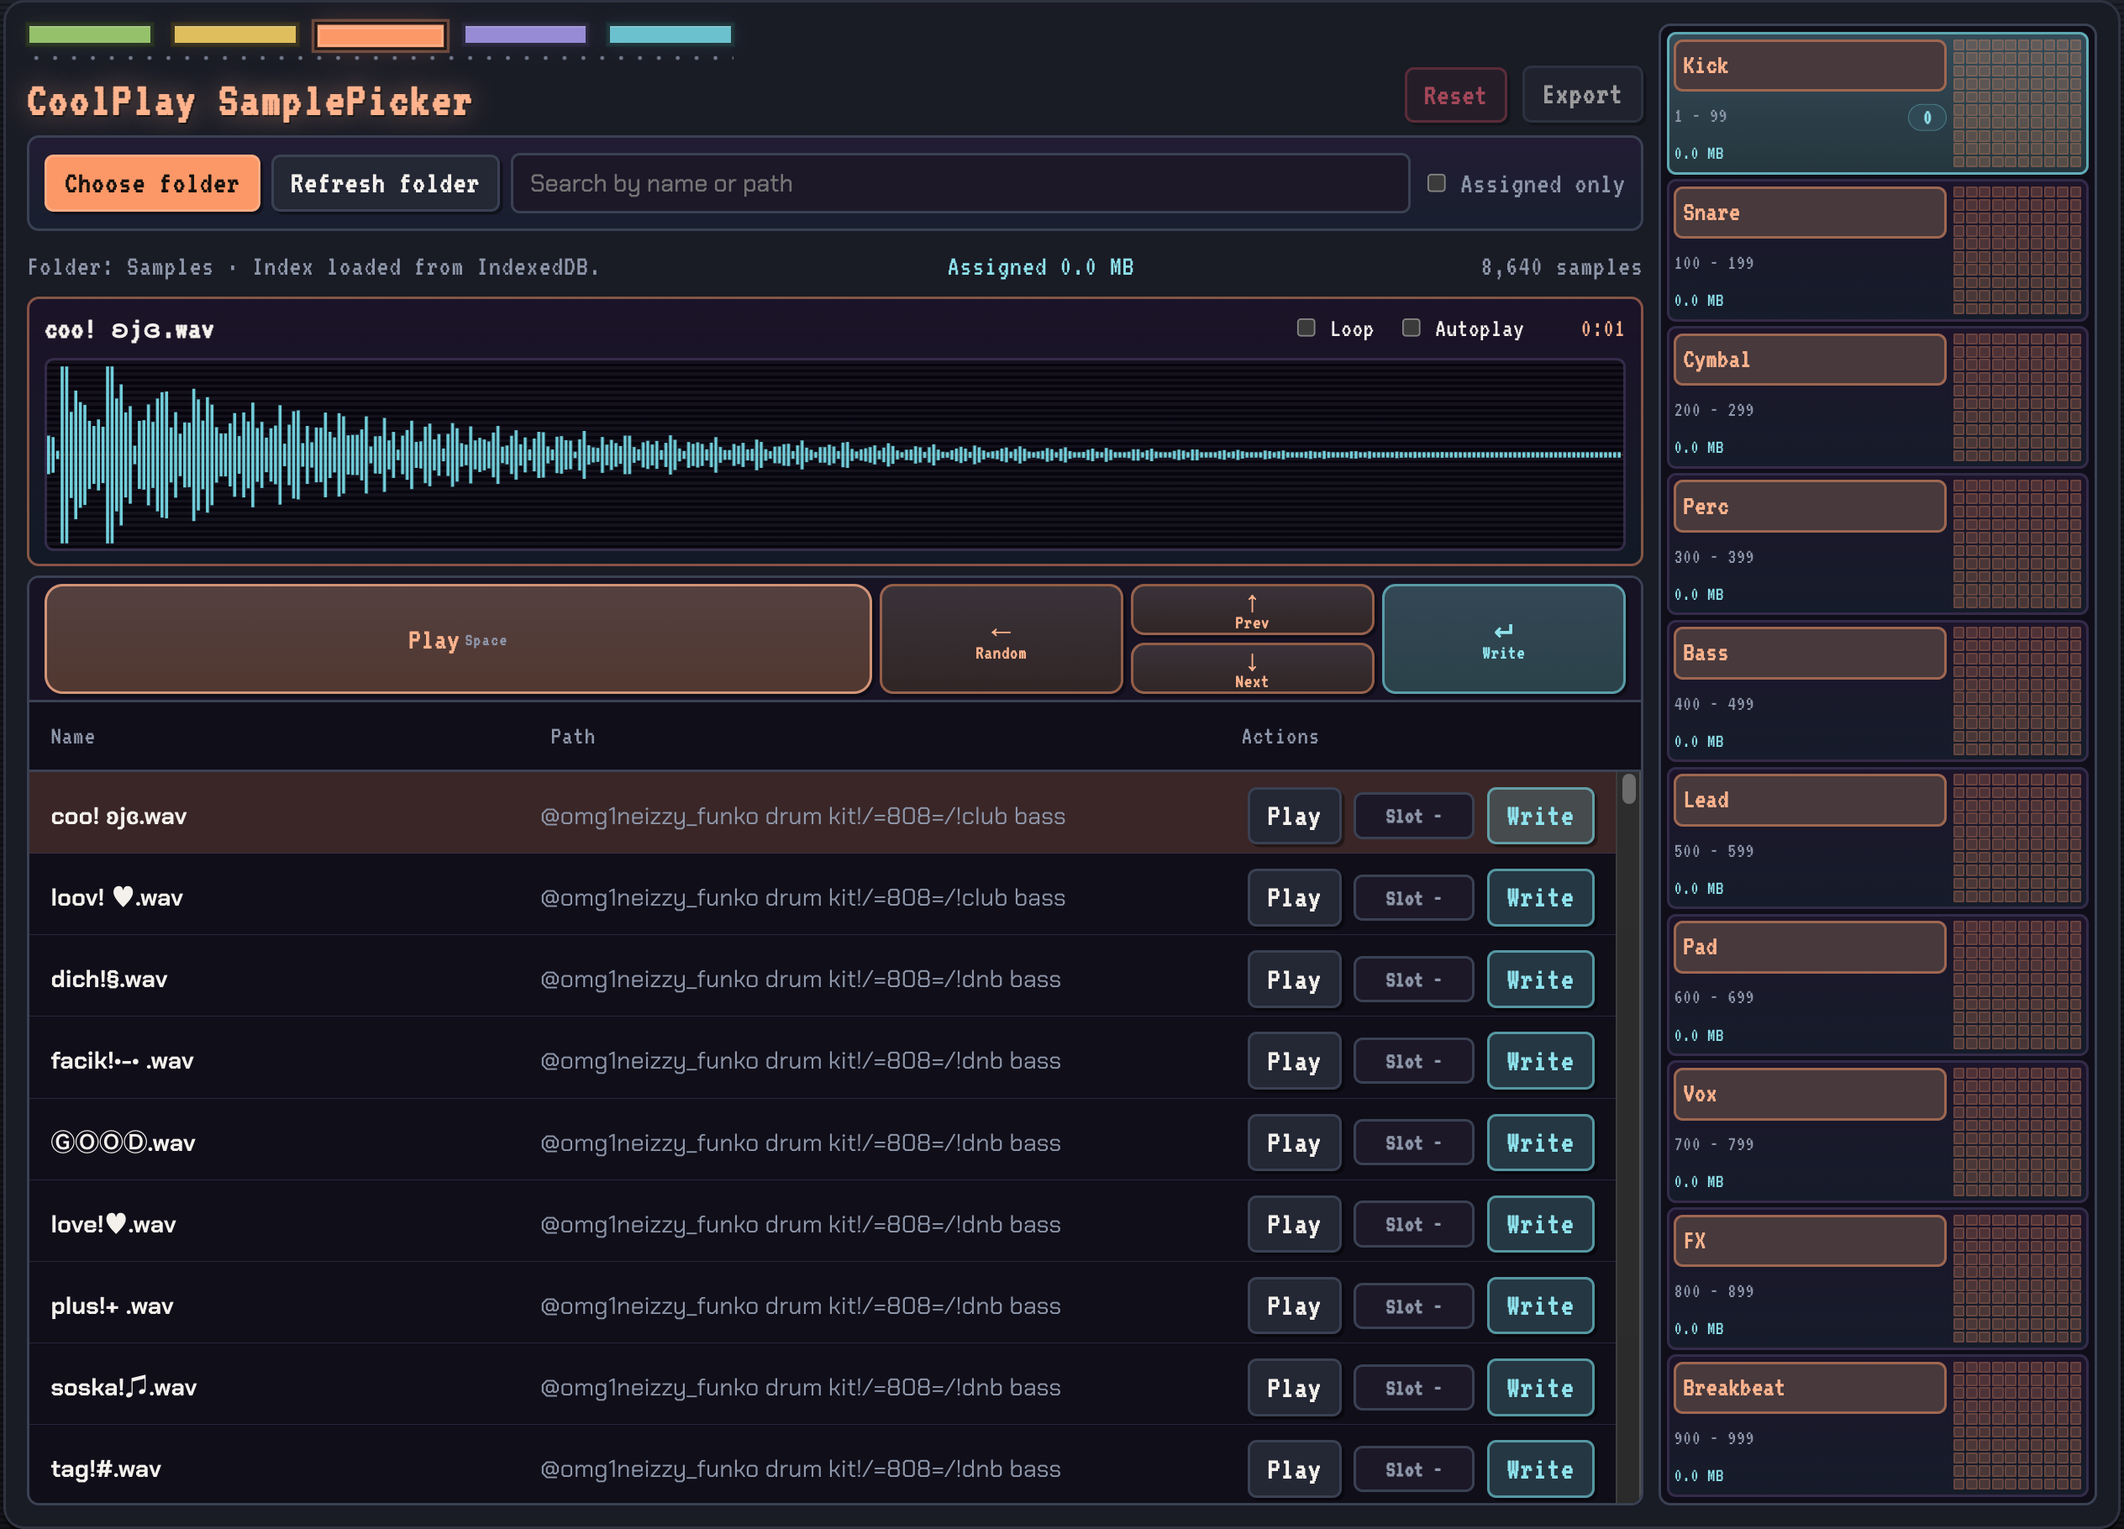
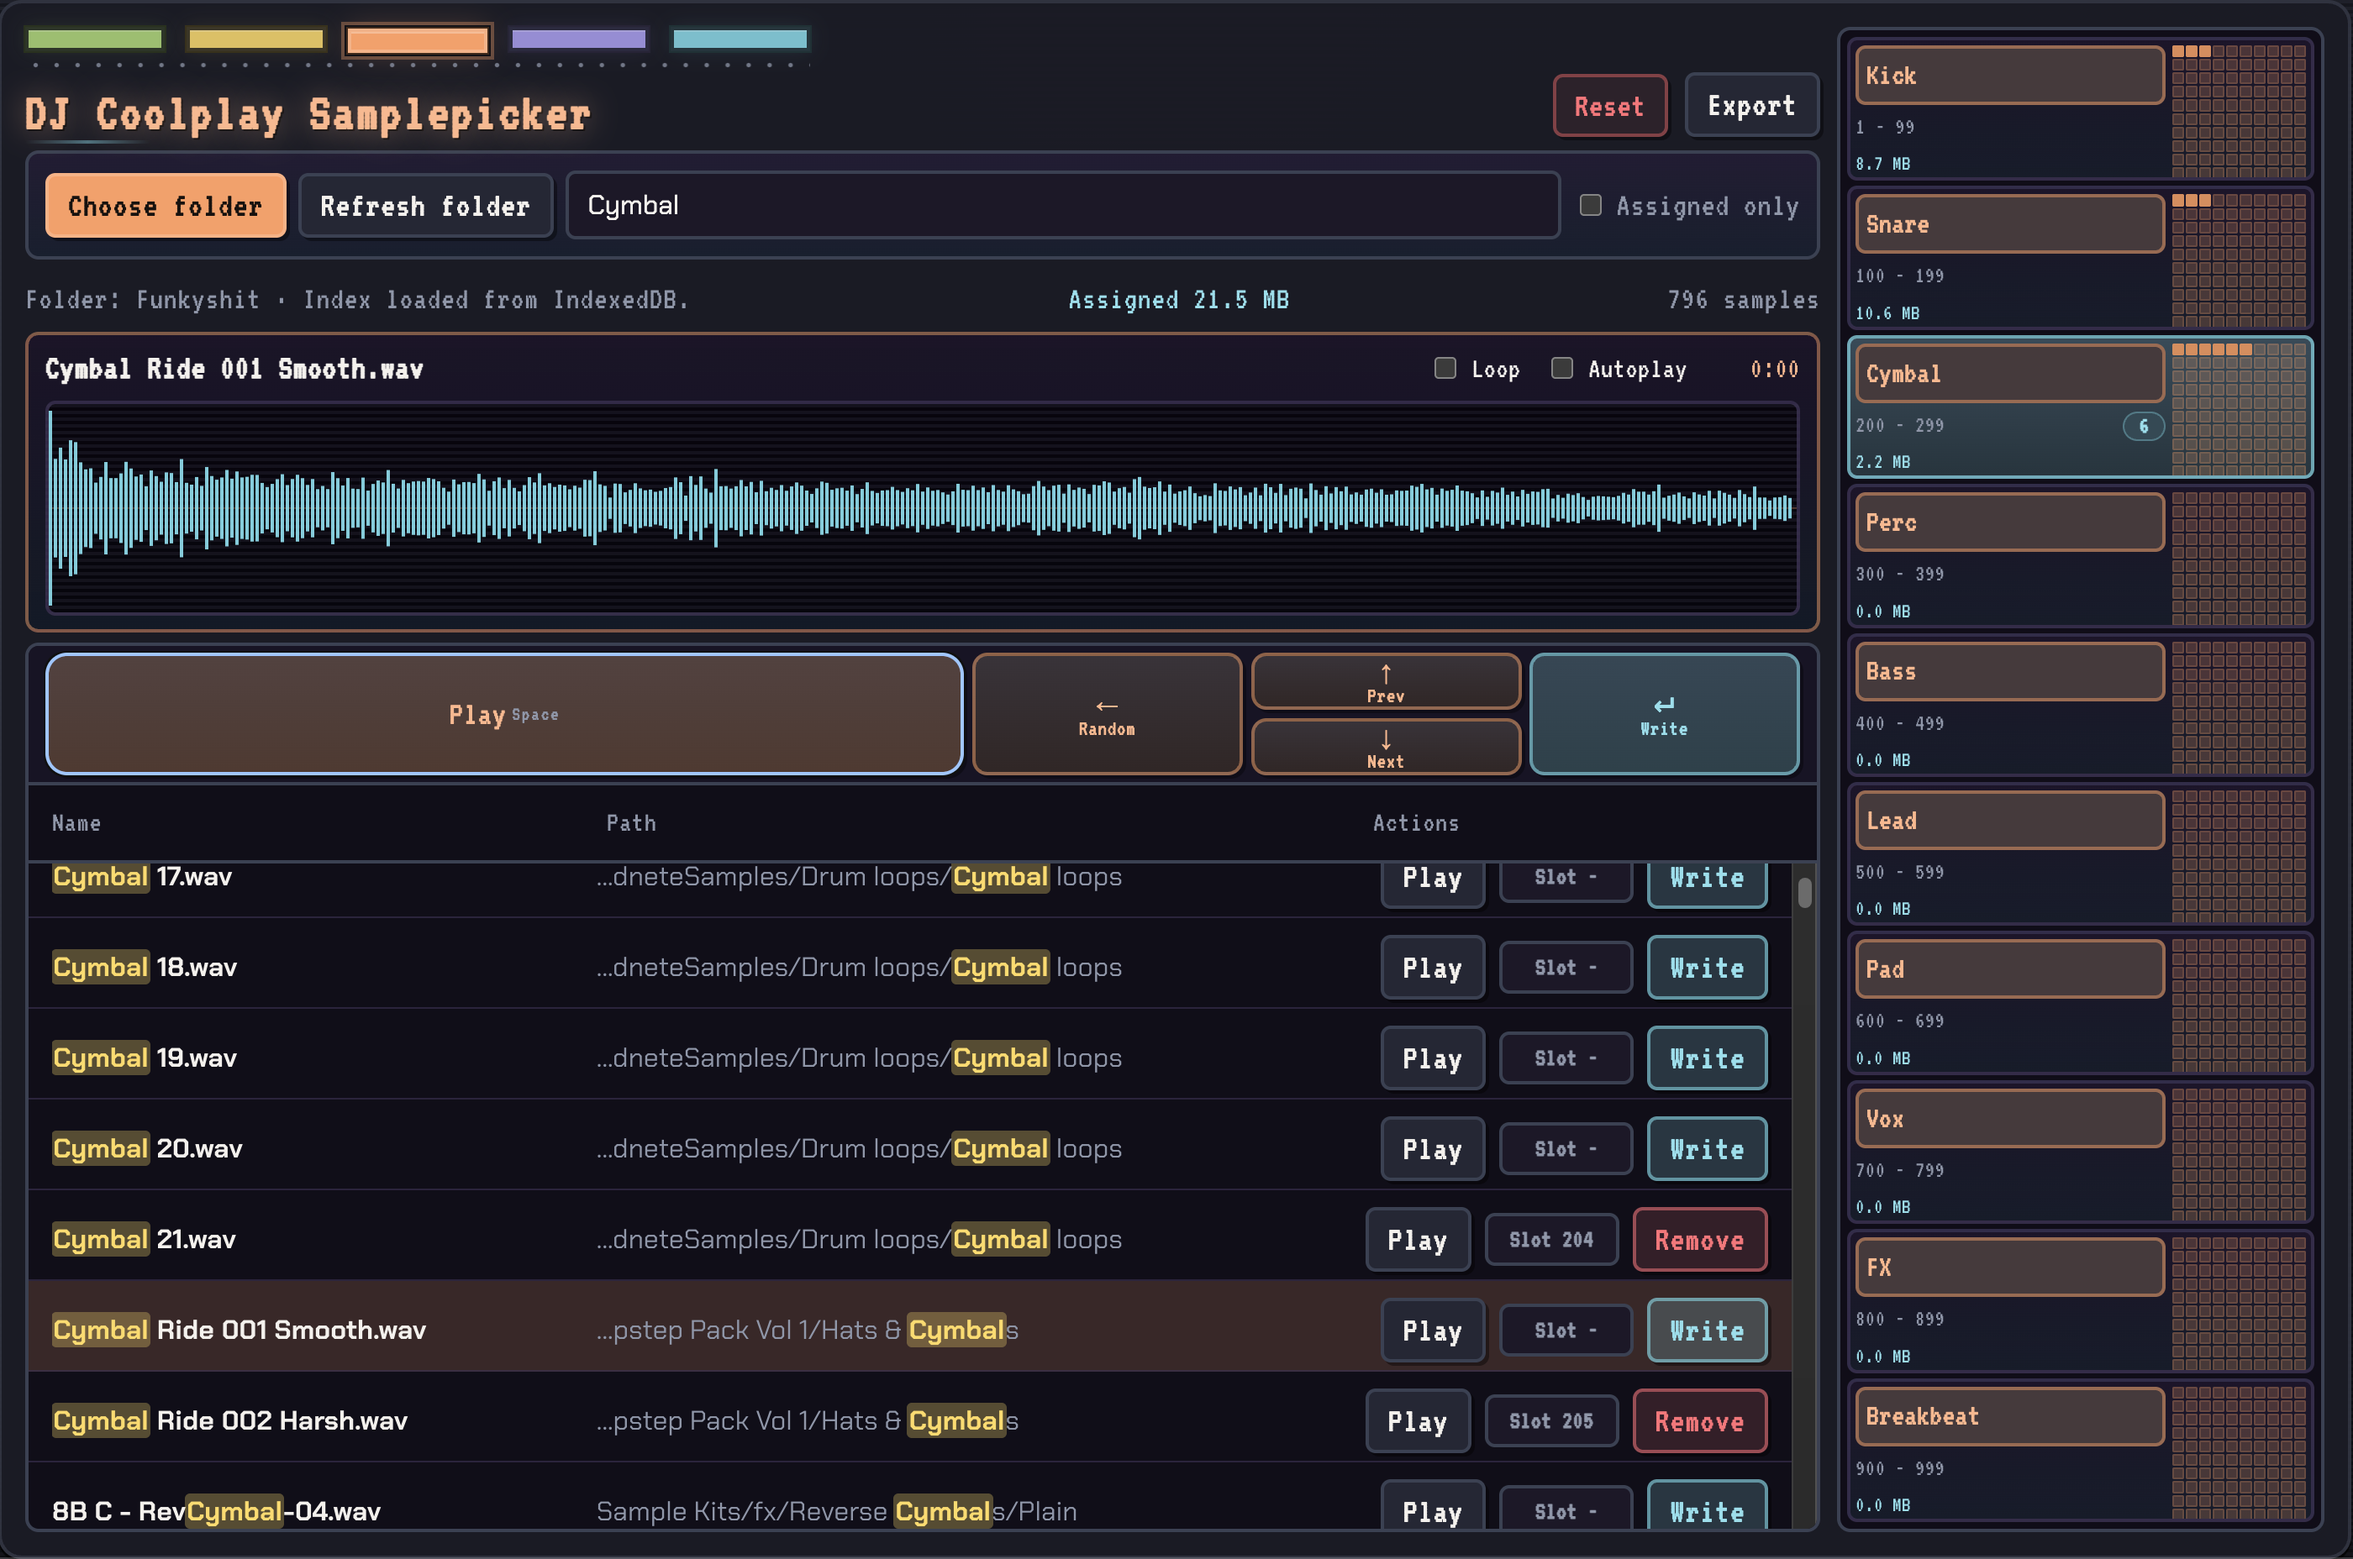
Update README branding and preview image

diff --git a/README.md b/README.md
@@ -1,4 +1,4 @@
-# CoolPlay Sample Picker MVP
+# DJ Coolplay Samplepicker
 
 ![App screenshot](docs/readme-app-preview.png)
 
